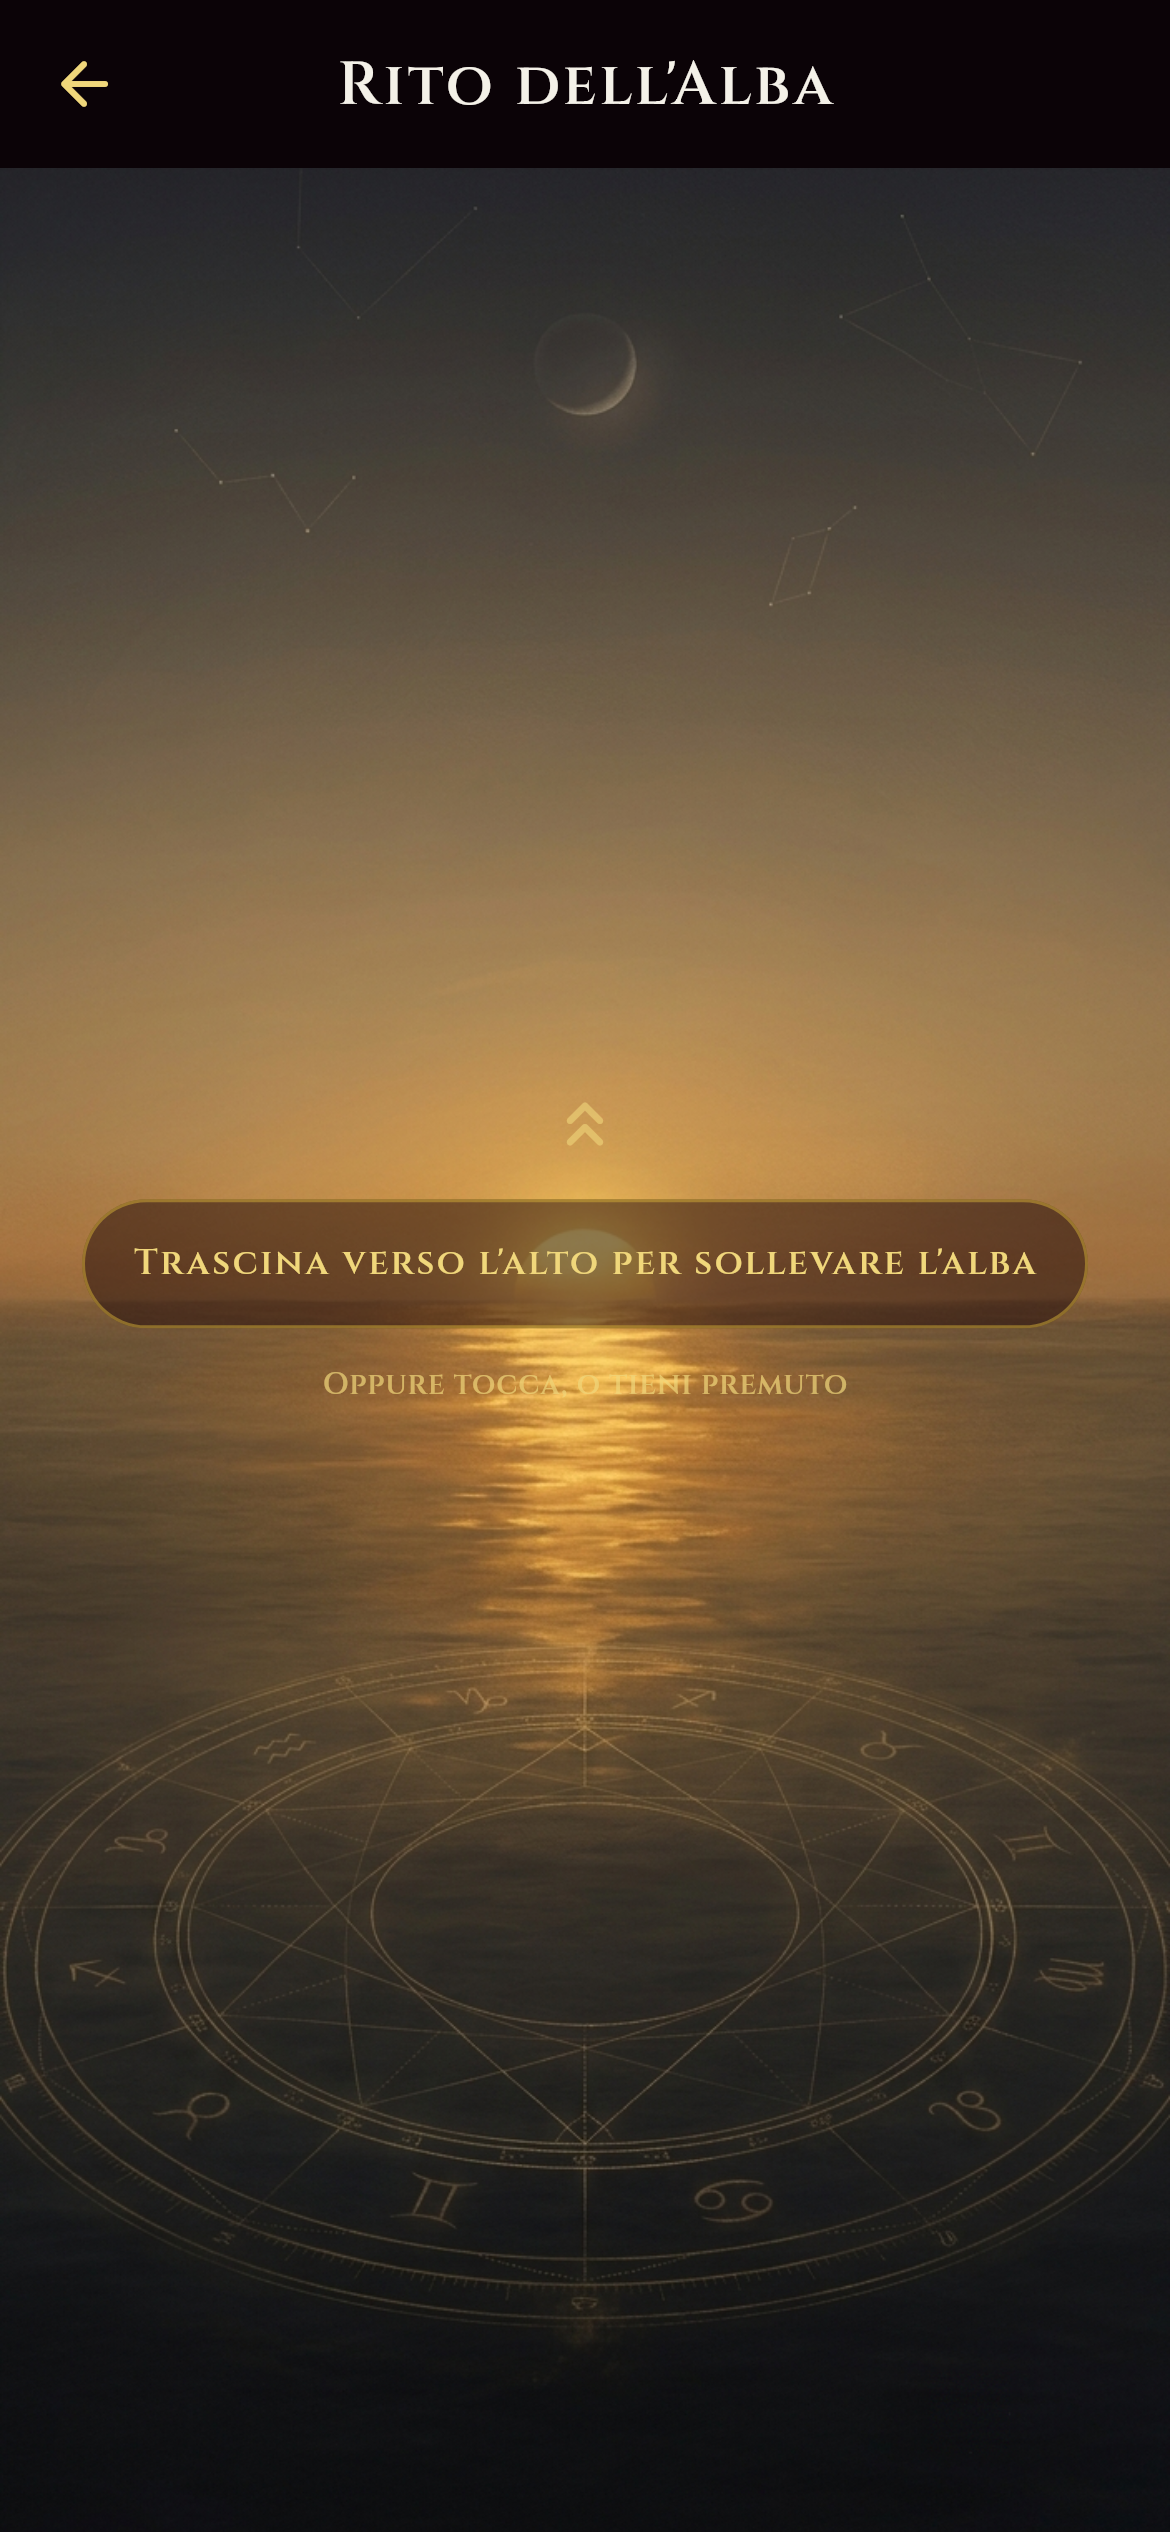
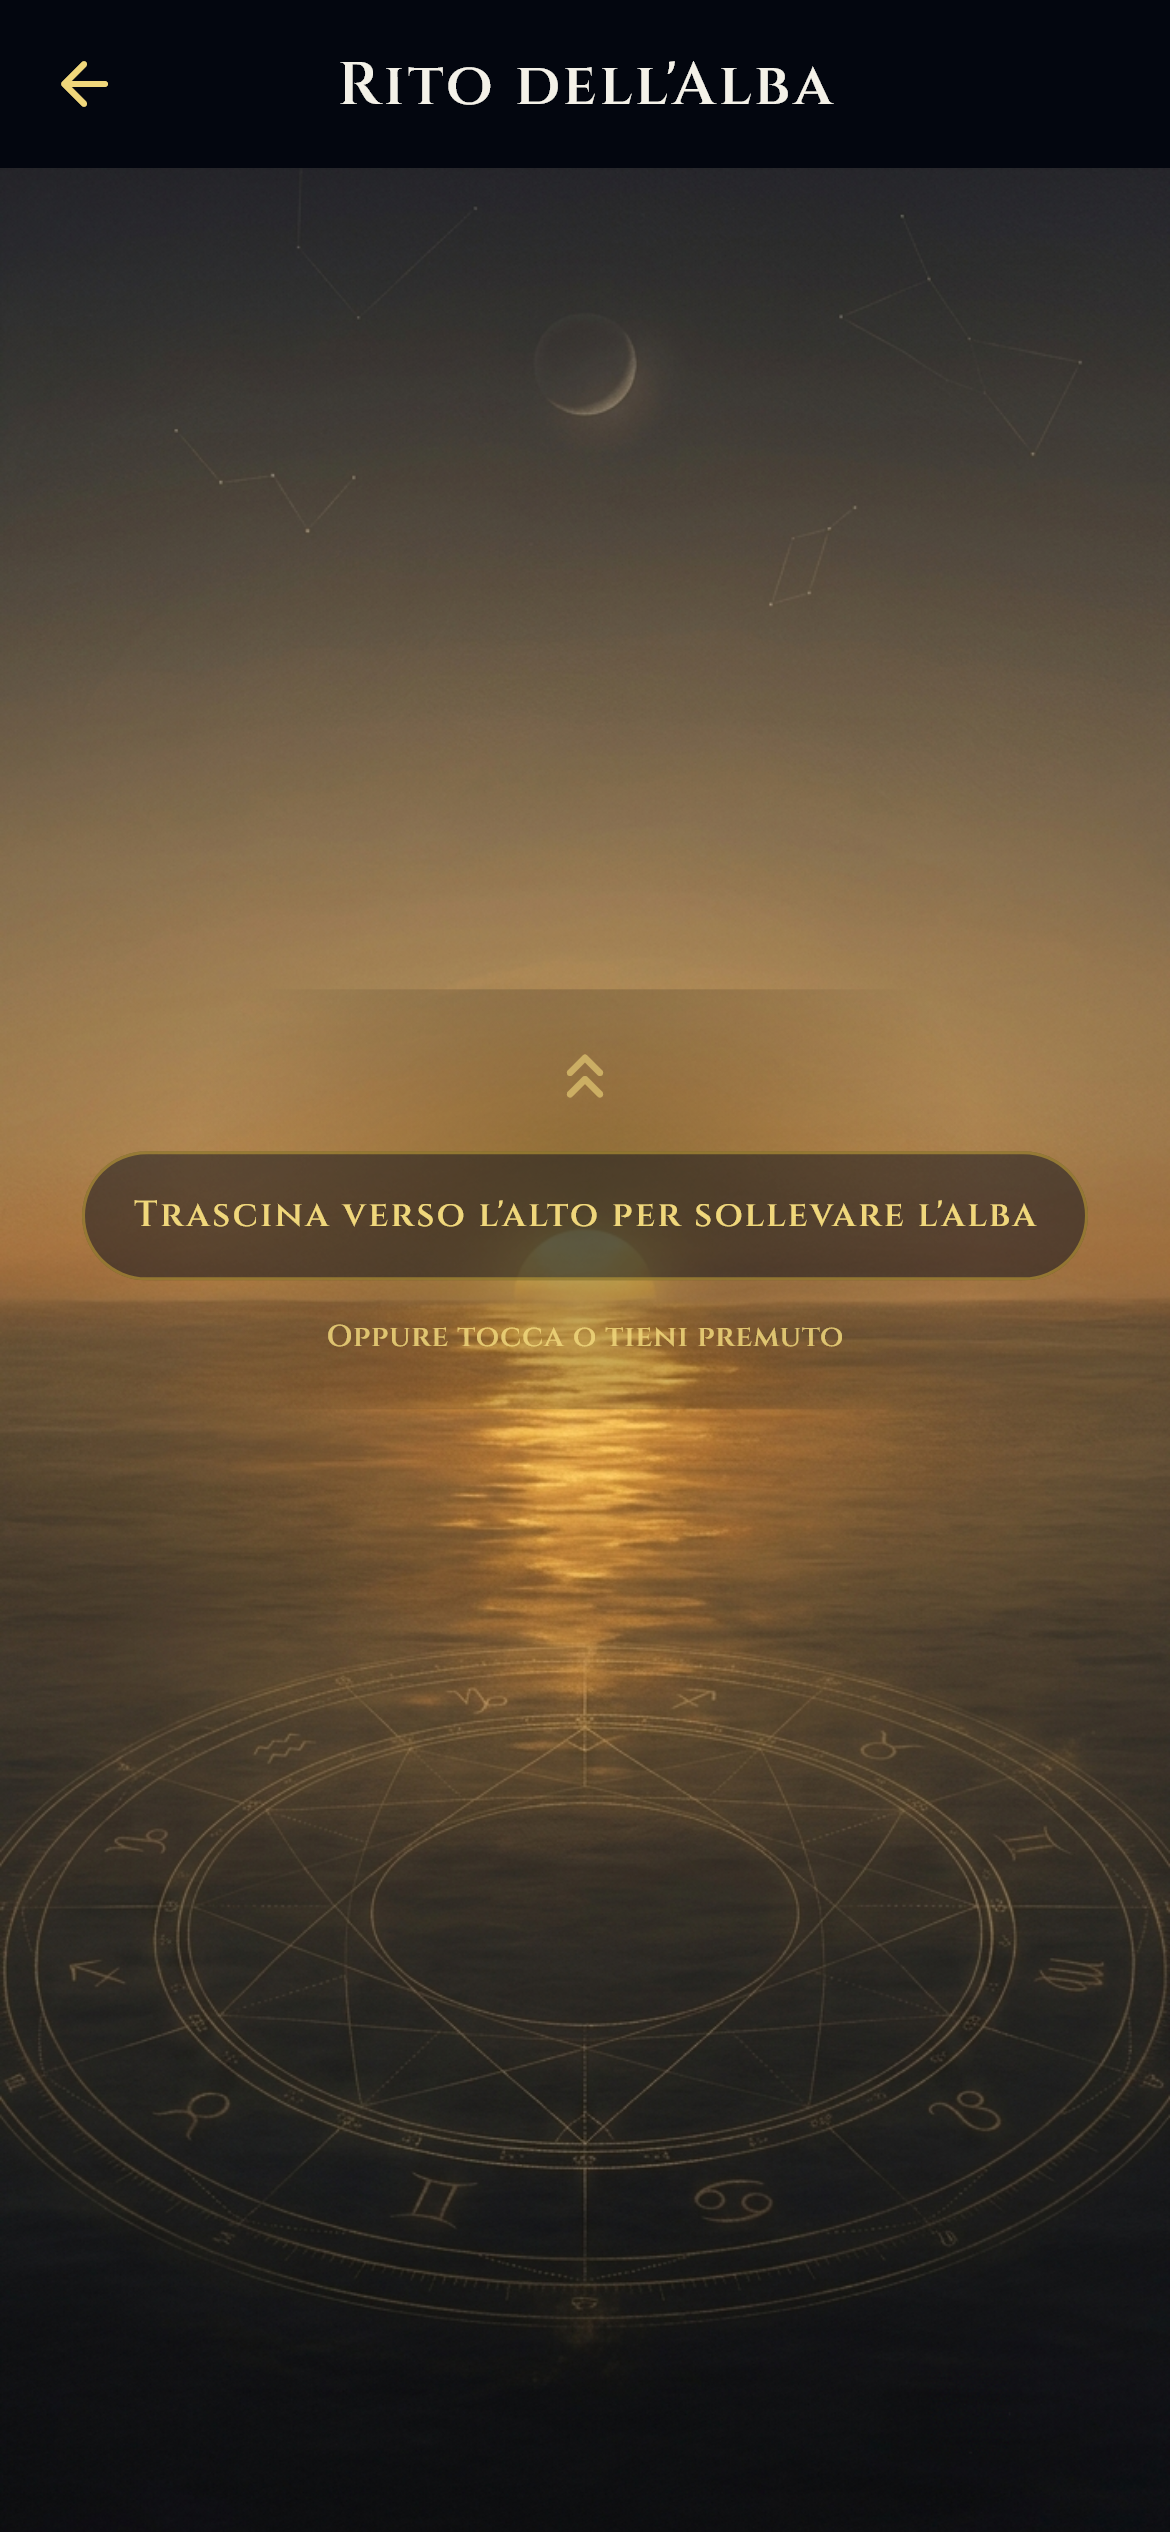
Rito dell'Alba: velo morbido dietro i testi e copy del sotto invito
Dietro il blocco del dono nello stato rivelato, e dietro il sotto invito nello
stato velato, un velo scuro morbido tiene il testo leggibile anche col bagliore
del sollevamento al massimo. Il velo del dono sfuma dall'alto trasparente al
fondo scuro, quello del sotto invito e' un alone che sfuma ai bordi: coprono il
testo e non la scena, senza tagliare riquadri netti sulla foto.

Corregge il copy del sotto invito in "Oppure tocca o tieni premuto", senza la
virgola.

Anteprime dei due stati rigenerate.

Changed region(s): [[0.0615, 0.3744, 0.9231, 0.5616]]

diff --git a/lib/features/rituals/dawn_rite_screen.dart b/lib/features/rituals/dawn_rite_screen.dart
@@ -252,24 +252,61 @@ class _DawnRiteScreenState extends State<DawnRiteScreen>
                 ),
                 Expanded(
                   flex: 4,
-                  child: SingleChildScrollView(
-                    padding: const EdgeInsets.fromLTRB(SpacingTokens.lg, 0,
-                        SpacingTokens.lg, SpacingTokens.lg),
-                    child: (_revealed && _gift != null)
-                        ? _DawnGiftCard(
-                            key: const Key('ritual_content'),
-                            gift: _gift!,
-                            palette: palette,
-                            streak: _streak,
-                            onShare: () => _shareWord(_gift!),
-                          )
-                        : const SizedBox.shrink(),
+                  child: Stack(
+                    children: [
+                      // Velo scuro morbido dietro il dono: tiene il testo
+                      // leggibile anche col bagliore al massimo, coprendo il
+                      // testo e non la scena. Sfuma verso l'alto, cosi' non
+                      // taglia un bordo netto sulla foto.
+                      if (_revealed)
+                        const Positioned.fill(
+                          child: IgnorePointer(child: _GiftVeil()),
+                        ),
+                      SingleChildScrollView(
+                        padding: const EdgeInsets.fromLTRB(SpacingTokens.lg, 0,
+                            SpacingTokens.lg, SpacingTokens.lg),
+                        child: (_revealed && _gift != null)
+                            ? _DawnGiftCard(
+                                key: const Key('ritual_content'),
+                                gift: _gift!,
+                                palette: palette,
+                                streak: _streak,
+                                onShare: () => _shareWord(_gift!),
+                              )
+                            : const SizedBox.shrink(),
+                      ),
+                    ],
                   ),
                 ),
               ],
             ),
           ),
         ],
+      ),
+    );
+  }
+}
+
+/// Velo scuro morbido dietro il blocco del dono. Sfuma dall'alto trasparente al
+/// fondo scuro, cosi' copre il testo e non la scena, e regge la lettura anche
+/// col bagliore del sollevamento al massimo.
+class _GiftVeil extends StatelessWidget {
+  const _GiftVeil();
+
+  @override
+  Widget build(BuildContext context) {
+    return const DecoratedBox(
+      decoration: BoxDecoration(
+        gradient: LinearGradient(
+          begin: Alignment.topCenter,
+          end: Alignment.bottomCenter,
+          colors: [
+            Color(0x00000000),
+            Color(0x59000000),
+            Color(0x8C000000),
+          ],
+          stops: [0.0, 0.35, 1.0],
+        ),
       ),
     );
   }
@@ -284,36 +321,52 @@ class _LiftPrompt extends StatelessWidget {
 
   @override
   Widget build(BuildContext context) {
-    return Column(
-      mainAxisSize: MainAxisSize.min,
-      children: [
-        Icon(Icons.keyboard_double_arrow_up_rounded,
-            color: palette.goldSoft.withValues(alpha: 0.6 + 0.4 * progress),
-            size: 26),
-        const SizedBox(height: SpacingTokens.sm),
-        Container(
-          padding: const EdgeInsets.symmetric(
-              horizontal: SpacingTokens.md, vertical: SpacingTokens.sm),
-          decoration: BoxDecoration(
-            borderRadius: BorderRadius.circular(SpacingTokens.radiusPill),
-            color: palette.deepest.withValues(alpha: 0.5),
-            border: Border.all(color: palette.gold.withValues(alpha: 0.5)),
-          ),
-          child: Text(
-            'Trascina verso l\'alto per sollevare l\'alba',
-            style: TypographyTokens.label(size: 12)
-                .copyWith(color: palette.goldSoft, letterSpacing: 0.8),
-          ),
+    // Velo scuro morbido dietro il sotto invito: un alone che sfuma ai bordi,
+    // cosi' il testo resta leggibile sul riflesso luminoso senza tagliare un
+    // riquadro sulla scena.
+    return Container(
+      padding: const EdgeInsets.symmetric(
+          horizontal: SpacingTokens.lg, vertical: SpacingTokens.md),
+      decoration: BoxDecoration(
+        gradient: RadialGradient(
+          radius: 0.95,
+          colors: [
+            Colors.black.withValues(alpha: 0.34),
+            Colors.black.withValues(alpha: 0.0),
+          ],
         ),
-        const SizedBox(height: SpacingTokens.sm),
-        Text(
-          'Oppure tocca, o tieni premuto',
-          style: TypographyTokens.label(size: 10).copyWith(
-            color: palette.goldSoft.withValues(alpha: 0.7),
-            letterSpacing: 0.3,
+      ),
+      child: Column(
+        mainAxisSize: MainAxisSize.min,
+        children: [
+          Icon(Icons.keyboard_double_arrow_up_rounded,
+              color: palette.goldSoft.withValues(alpha: 0.6 + 0.4 * progress),
+              size: 26),
+          const SizedBox(height: SpacingTokens.sm),
+          Container(
+            padding: const EdgeInsets.symmetric(
+                horizontal: SpacingTokens.md, vertical: SpacingTokens.sm),
+            decoration: BoxDecoration(
+              borderRadius: BorderRadius.circular(SpacingTokens.radiusPill),
+              color: palette.deepest.withValues(alpha: 0.5),
+              border: Border.all(color: palette.gold.withValues(alpha: 0.5)),
+            ),
+            child: Text(
+              'Trascina verso l\'alto per sollevare l\'alba',
+              style: TypographyTokens.label(size: 12)
+                  .copyWith(color: palette.goldSoft, letterSpacing: 0.8),
+            ),
           ),
-        ),
-      ],
+          const SizedBox(height: SpacingTokens.sm),
+          Text(
+            'Oppure tocca o tieni premuto',
+            style: TypographyTokens.label(size: 10).copyWith(
+              color: palette.goldSoft.withValues(alpha: 0.85),
+              letterSpacing: 0.3,
+            ),
+          ),
+        ],
+      ),
     );
   }
 }
